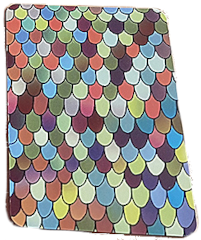
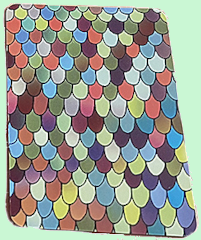
align background colors

Changed region(s): [[0.0, 0.0, 1.0, 1.0]]

diff --git a/client/src/index.css b/client/src/index.css
@@ -1,6 +1,7 @@
 body {
   font: 14px "Century Gothic", Futura, sans-serif;
   margin-top: 20px;
+  background-color:rgb(220, 255, 224);
 }
 
 img {
@@ -25,7 +26,7 @@ ol, ul {
 }
 
 .square {
-  background: #fff;
+  background: rgb(220, 255, 224);
   border: none;
   float: left;
   font-size: 24px;

diff --git a/public/stylesheets/style.css b/public/stylesheets/style.css
@@ -1,7 +1,7 @@
 body {
   padding: 50px;
   font: 14px "Lucida Grande", Helvetica, Arial, sans-serif;
-  background-color:rgba(0, 128, 0, 0.212);
+  background-color:rgb(220, 255, 224);
 }
 
 button {
